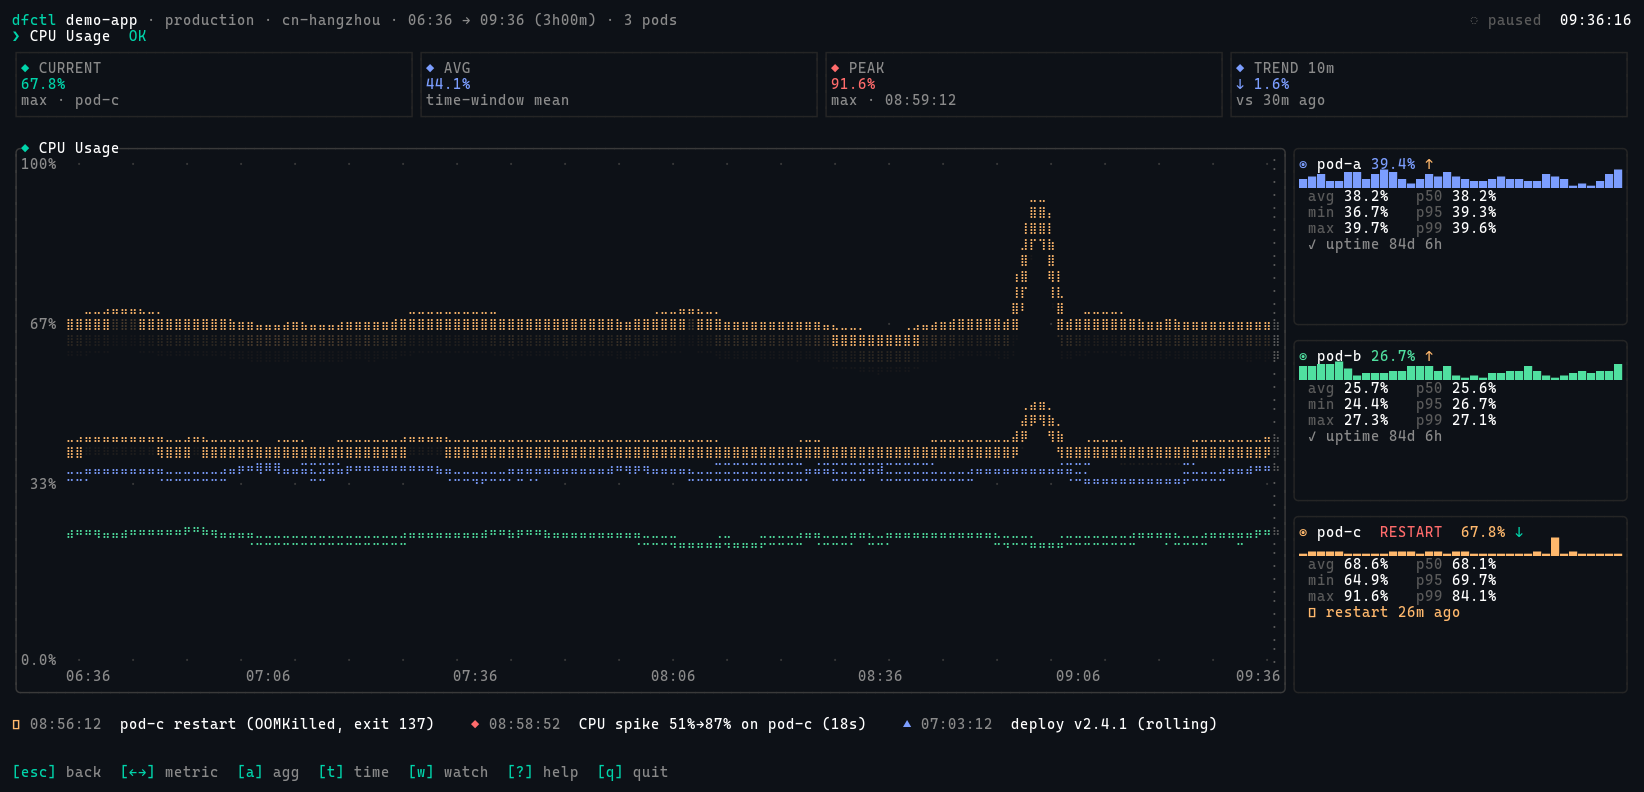
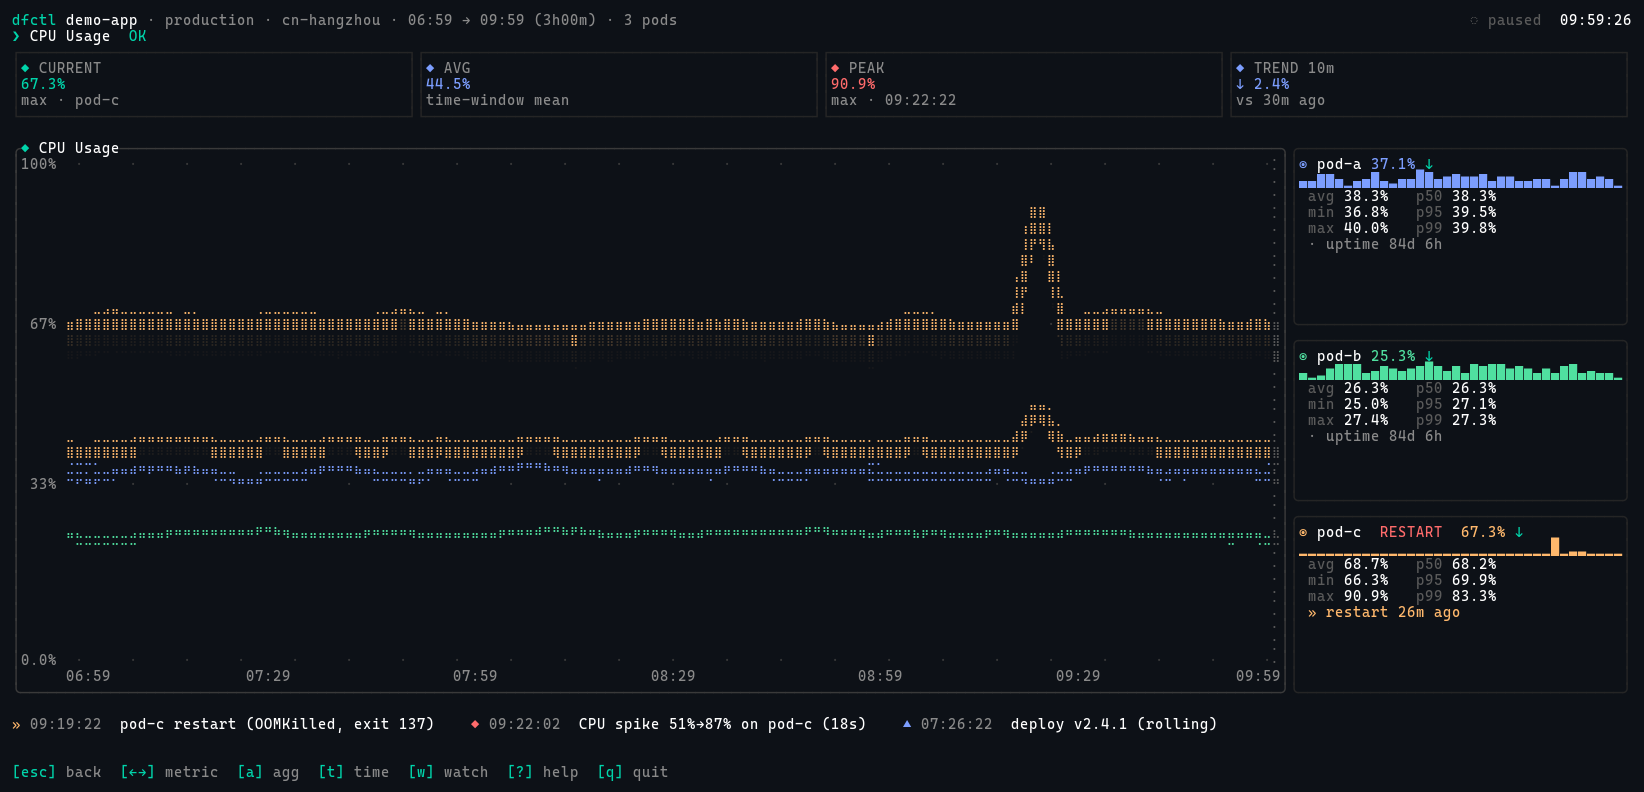
phase-6: ASCII-safe event glyphs + visible-only phone pager
Closes the last two items on Codex's must-fix list:

 - EventKind::Restart `↻` → `»` (Latin-1, no font dependency)
 - EventKind::ScaleEvent `⇅` → `↕` (more widely available arrow)
   These are the bottom-row event icons; rendered fine on Cascadia/JBM
   but not safe on minimal terminal fonts.

 - state::cycle_focus_visible: like cycle_focus but only walks the
   visible metric set (filters optional panels with empty series).
   Phone-tier `↑↓←→` flip now uses it, so users can't land on a blank
   Upstream/Runtime page when those data sources aren't wired up.

diff --git a/src/commands/monitor/state.rs b/src/commands/monitor/state.rs
@@ -147,6 +147,37 @@ impl AppState {
         self.focused_panel = n as usize;
     }
 
+    /// Like `cycle_focus` but stays inside the visible metric set — skips
+    /// optional metrics whose API series is empty. Used by phone-tier pager
+    /// so users never land on a blank "no data" page.
+    pub fn cycle_focus_visible(&mut self, delta: i32) {
+        let order = MetricKind::all_default();
+        let visible: Vec<usize> = order
+            .iter()
+            .enumerate()
+            .filter(|(_, m)| {
+                if !m.is_optional() {
+                    return true;
+                }
+                self.data
+                    .as_ref()
+                    .and_then(|d| d.metrics.get(m))
+                    .map(|md| !md.series.is_empty())
+                    .unwrap_or(false)
+            })
+            .map(|(i, _)| i)
+            .collect();
+        if visible.is_empty() {
+            return;
+        }
+        let cur_pos = visible
+            .iter()
+            .position(|i| *i == self.focused_panel)
+            .unwrap_or(0);
+        let n = (cur_pos as i32 + delta).rem_euclid(visible.len() as i32) as usize;
+        self.focused_panel = visible[n];
+    }
+
     pub fn countdown_seconds(&self) -> Option<u64> {
         if !self.watch_enabled || self.watch_paused {
             return None;

diff --git a/src/commands/monitor/input.rs b/src/commands/monitor/input.rs
@@ -138,7 +138,9 @@ pub fn handle_key(key: KeyEvent, st: &mut AppState, tier: LayoutTier) -> Action 
             | KeyCode::Char('h')
                 if matches!(tier, LayoutTier::Phone) =>
             {
-                st.cycle_focus(-1)
+                // Phone pager cycles only through visible panels so users
+                // never land on an empty Upstream/Runtime page.
+                st.cycle_focus_visible(-1)
             }
             KeyCode::Down
             | KeyCode::Right
@@ -146,7 +148,7 @@ pub fn handle_key(key: KeyEvent, st: &mut AppState, tier: LayoutTier) -> Action 
             | KeyCode::Char('l')
                 if matches!(tier, LayoutTier::Phone) =>
             {
-                st.cycle_focus(1)
+                st.cycle_focus_visible(1)
             }
             // Desktop tiers: 2D grid movement
             KeyCode::Left | KeyCode::Char('h') => st.move_focus(-1, 0),

diff --git a/src/commands/monitor/data/model.rs b/src/commands/monitor/data/model.rs
@@ -225,13 +225,15 @@ pub enum EventKind {
 }
 
 impl EventKind {
+    /// Glyphs use only widely-available code points (Geometric Shapes block +
+    /// Latin-1 punctuation). No CJK / Nerd Font fallbacks needed.
     pub fn glyph(&self) -> &'static str {
         match self {
-            EventKind::Restart => "↻",
+            EventKind::Restart => "»",
             EventKind::Deploy => "▲",
             EventKind::AlertFired => "◆",
             EventKind::AlertResolved => "◇",
-            EventKind::ScaleEvent => "⇅",
+            EventKind::ScaleEvent => "↕",
         }
     }
 }
